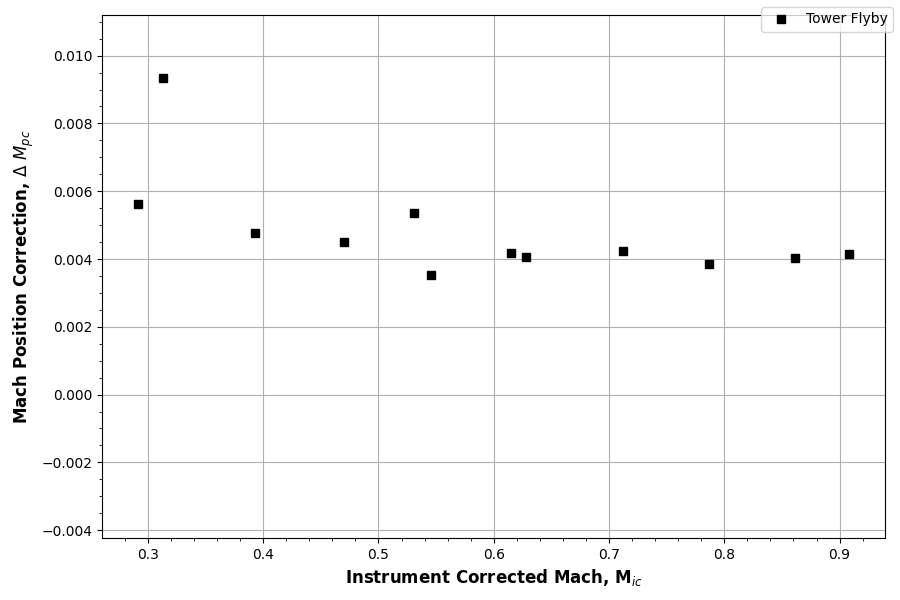
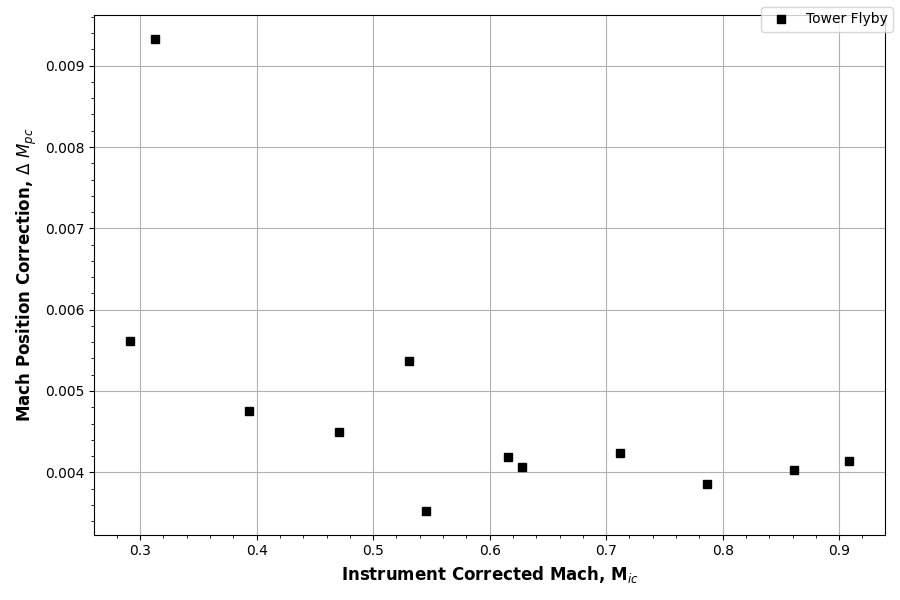
plotter updates

diff --git a/src/modules/plotters.py b/src/modules/plotters.py
@@ -23,7 +23,7 @@ def plot_static_position_error_analysis(results: dict, std_atm: AtmosphereModel)
         ax.set_xlabel(xlabel)
         ax.set_ylabel(ylabel)
         ax.minorticks_on()
-        ax.set_ylim(-np.abs(np.min(y*1.2)), np.max(y)*1.2)
+        #ax.set_ylim(-np.abs(np.min(y*1.2)), np.max(y)*1.2)
         fig.legend()
         ax.grid(True)
 
